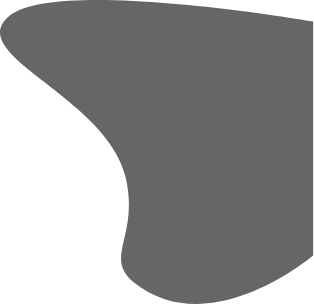
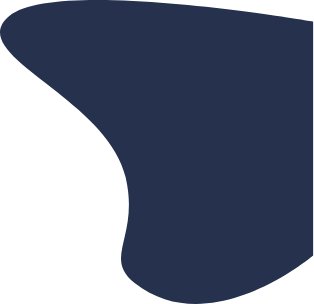
dark mode editation images

diff --git a/src/core/utils/darkMode.utils.js b/src/core/utils/darkMode.utils.js
@@ -6,9 +6,9 @@ const darkMode = () => {
     }
 
     if(location.pathname == "/") {
-        var elementImages = [heroSection.children[0] , heroSectionWoman , servicesWoman , servicesMan , servicesPath ]
-        var lightSrc = ["../src/assets/images/heroSection/bg-top.png" , "../src/assets/images/heroSection/woman.png" , "../src/assets/images/landingService/Group 159.png" , "../src/assets/images/landingService/Group 160.png" , "../src/assets/images/landingService/Path 620.png"]
-        var darktSrc = ["../src/assets/images/heroSection/bg-top-dark.png" , "../src/assets/images/heroSection/woman-dark.png" , "../src/assets/images/landingService/Group 159-dark.png" , "../src/assets/images/landingService/Group 160-dark.png" , "../src/assets/images/landingService/Path 620-dark.png"]
+        var elementImages = [heroSection.children[0] , heroSectionWoman , servicesWoman , servicesMan , servicesPath , mas1 , mas2 ]
+        var lightSrc = ["../src/assets/images/heroSection/bg-top.png" , "../src/assets/images/heroSection/woman.png" , "../src/assets/images/landingService/Group 159.png" , "../src/assets/images/landingService/Group 160.png" , "../src/assets/images/landingService/Path 620.png" , "../src/assets/images/landingMaster/77777.png" , "../src/assets/images/landingMaster/Path 564.png"]
+        var darktSrc = ["../src/assets/images/heroSection/bg-top-dark.png" , "../src/assets/images/heroSection/woman-dark.png" , "../src/assets/images/landingService/Group 159-dark.png" , "../src/assets/images/landingService/Group 160-dark.png" , "../src/assets/images/landingService/Path 620-dark.png" , "../src/assets/images/landingMaster/77777-dark.png" , "../src/assets/images/landingMaster/Path 564-dark.png"]
     }
     let loc = localStorage.getItem("theme")
 

diff --git a/src/components/landing/Masters.jsx b/src/components/landing/Masters.jsx
@@ -37,8 +37,8 @@ const Masters = () => {
                 teacher.map((element,index)=> <Master key={index} name={element.fullName} ability="طراح فرانت" src={element.pictureAddress} />)
               }
           </div>
-          <img src="../src/assets/images/landingMaster/Path 564.png" alt="" className="absolute bottom-[200px] right-[-50px] scale-[70%] max-[1300px]:scale-[60%] max-[1300px]:right-[-65px] max-[1120px]:scale-[55%] max-[1024px]:hidden transition-all duration-700" />
-          <img src="../src/assets/images/landingMaster/77777.png" alt="" className="absolute top-[100px] left-[-120px] scale-[70%] max-[1300px]:scale-[60%] max-[1300px]:left-[-135px] max-[1120px]:scale-[50%] max-[1120px]:left-[-158px] max-[1023px]:hidden transition-all duration-700" />
+          <img src="../src/assets/images/landingMaster/Path 564.png" alt="" className="absolute bottom-[200px] right-[-50px] scale-[70%] max-[1300px]:scale-[60%] max-[1300px]:right-[-65px] max-[1120px]:scale-[55%] max-[1024px]:hidden transition-all duration-700" id="mas2"/>
+          <img src="../src/assets/images/landingMaster/77777.png" alt="" className="absolute top-[100px] left-[-120px] scale-[70%] max-[1300px]:scale-[60%] max-[1300px]:left-[-135px] max-[1120px]:scale-[50%] max-[1120px]:left-[-158px] max-[1023px]:hidden transition-all duration-700" id="mas1"/>
       </div>
     )
 }

diff --git a/src/components/landing/TitleComponents.jsx b/src/components/landing/TitleComponents.jsx
@@ -1,12 +1,13 @@
-const TitleComponents = ({title,content,src,className}) => {
+const TitleComponents = ({title,content,className}) => {
+
   return (
-    <div className={"w-[530px] max-[530px]:w-[430px] max-[530px]:w-[410px]  max-[500px]:w-[380px] max-[400px]:w-[350px] max-[500px]:h-[185px]  h-[228px] relative mx-[auto] transition-all flex justify-center items-center   " + className}>
+    <div className={"w-[530px] max-[530px]:w-[410px]  max-[500px]:w-[380px] max-[400px]:w-[350px] max-[500px]:h-[185px]  h-[228px] relative mx-[auto] transition-all flex justify-center items-center   " + className}>
 
           <div className=" relative top-[25px] z-10 text-center [&>div:last-child]:text-[#9c6dcb] [&>div:first-child]:text-[#5a0ba9] [&>div:first-child]:text-[28px] [&>div]:my-[8px] ">
               <div>{title}</div>
               <div>{content}</div>
           </div>
-          <img src={"../src/assets/images/landingCourse/" + src} alt="" className="drop-shadow-[0px_3px_6px_#5757574f] w-full h-full absolute left-0 top-0"/>
+          <img src={"../src/assets/images/landingCourse/courses-title.png"} alt="" className="titleLand drop-shadow-[0px_3px_6px_#5757574f] w-full h-full absolute left-0 top-0"/>
           
     </div>
   )

diff --git a/src/components/map/LandingCatMap.jsx b/src/components/map/LandingCatMap.jsx
@@ -1,6 +1,5 @@
 import { useEffect, useState } from 'react'
 import customAxios from '../../core/services/interceptor'
-// import catItems from '../../core/services/landingCatDB'
 
 const LandingCatMap = () => {
 
@@ -21,7 +20,7 @@ const LandingCatMap = () => {
         return (
           <div key={index} className="w-[300px] h-[190px] transition duration-500 max-[1713px]:w-[250px] max-[1449px]:w-[350px] max-[1200px]:w-[300px] max-[1000px]:w-[250px] max-[730px]:w-[200px] max-[600px]:w-[150px] max-[600px]:h-[120px] max-[500px]:w-[120px] max-[500px]:h-[110px] max-[400px]:w-[100px] max-[400px]:h-[90px] " >
             <img src={el.iconAddress} className="w-28 h-28 p-2 max-[1000px]:w-24 max-[1000px]:h-24 max-[600px]:w-16 max-[475px]:h-16 max-[400px]:w-14 max-[400px]:h-14" />
-            <p className='max-[1000px]:text-[25px] max-[475px]:text-[18px] max-[400px]:text-[16px]'>{el.techName}</p>
+            <p className='max-[1000px]:text-[25px] max-[475px]:text-[18px] max-[400px]:text-[16px] dark:text-[#fff]'>{el.techName}</p>
           </div>
         );
     })

diff --git a/src/components/common/NightMode.jsx b/src/components/common/NightMode.jsx
@@ -2,12 +2,13 @@ import { useEffect, useRef } from "react"
 import headerScroll from "../../core/utils/headerScroll.utils"
 import darkMode from "../../core/utils/darkMode.utils"
 
-const NightMode = ({bgClass,borderClass}) => {
+const NightMode = ({bgClass}) => {
 
-    let sircleImgClassName = "w-[42%] h-[90%] rounded-[50%] transition-all duration-50 "
     let local = localStorage.getItem("theme")
     if(!local) localStorage.setItem("theme","light")
+
     const pic = useRef()
+
     useEffect(() => {
         darkMode()
     }, [])
